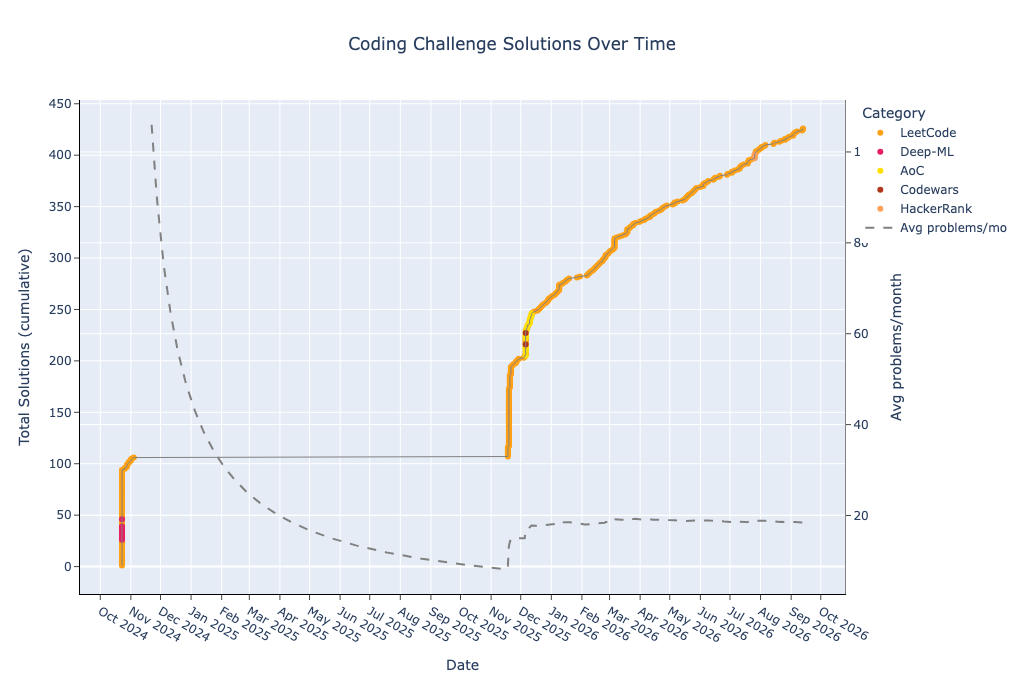
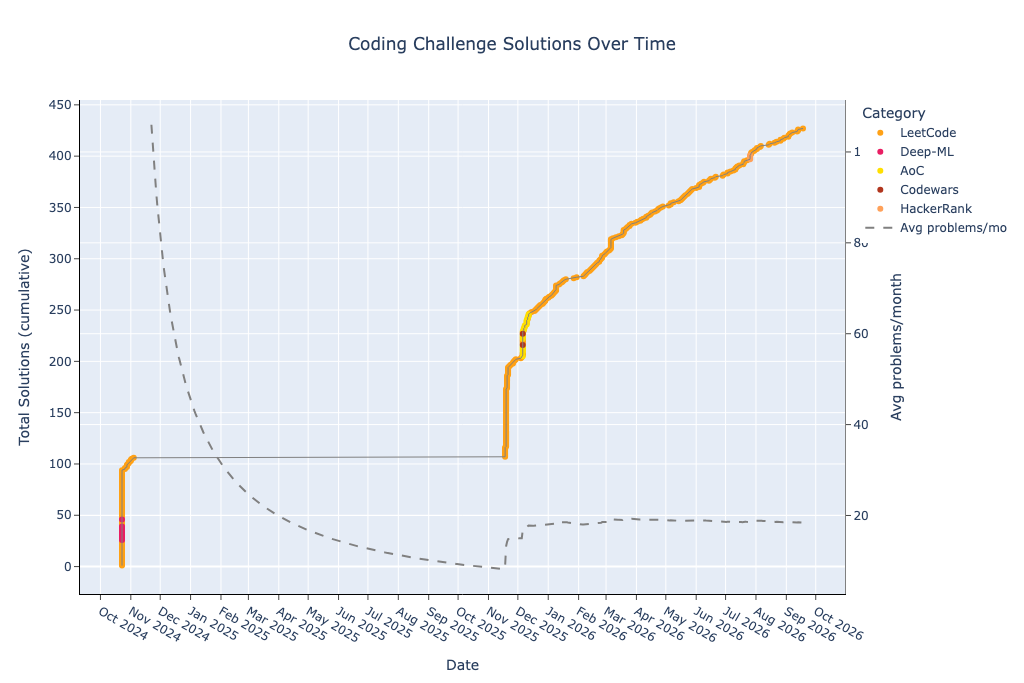
Regenerate README

diff --git a/README.md b/README.md
@@ -41,9 +41,9 @@ This repository contains a collection of coding problems solved on various platf
 | hackerrank-easy | 2 | 17 | 8 | 2 | 0 | 4 | 1 | 0 | 0 | 0 | 2 | 0 | 0 | 0 | 0 | 0 | 0 | 0 |
 | hackerrank-medium | 3 | 57 | 19 | 4 | 1 | 3 | 7 | 0 | 0 | 0 | 6 | 0 | 0 | 2 | 0 | 0 | 1 | 0 |
 | leetcode-easy | 137 | 2241 | 16 | 187 | 6 | 180 | 172 | 50 | 6 | 17 | 223 | 4 | 7 | 16 | 1 | 0 | 16 | 0 |
-| leetcode-medium | 207 | 5246 | 25 | 363 | 9 | 535 | 398 | 117 | 22 | 50 | 446 | 7 | 43 | 64 | 11 | 29 | 31 | 7 |
+| leetcode-medium | 208 | 5275 | 25 | 366 | 9 | 537 | 400 | 119 | 22 | 50 | 449 | 7 | 43 | 64 | 11 | 29 | 31 | 7 |
 | leetcode-hard | 37 | 1164 | 31 | 67 | 5 | 109 | 99 | 24 | 11 | 17 | 84 | 3 | 7 | 15 | 8 | 5 | 9 | 9 |
-| **total** | 426 | 10149 | 23 | 730 | 22 | 967 | 845 | 197 | 40 | 97 | 870 | 27 | 68 | 113 | 22 | 39 | 60 | 16 |
+| **total** | 427 | 10178 | 23 | 733 | 22 | 969 | 847 | 199 | 40 | 97 | 873 | 27 | 68 | 113 | 22 | 39 | 60 | 16 |
 
 ---
 
@@ -51,6 +51,7 @@ This repository contains a collection of coding problems solved on various platf
 
 | Date | Type | Challenge | Problem | Solution |
 | --- | --- | --- | --- | --- |
+| 2026-09-18 | LeetCode Medium | Find Two Non-overlapping Sub-arrays Each With Target Sum | [leetcode.com](https://leetcode.com/problems/find-two-non-overlapping-sub-arrays-each-with-target-sum/) | [python](leetcode/medium/1477.%20Find%20Two%20Non-overlapping%20Sub-arrays%20Each%20With%20Target%20Sum.py) |
 | 2026-09-13 | LeetCode Medium | Image Overlap | [leetcode.com](https://leetcode.com/problems/image-overlap/) | [python](leetcode/medium/835.%20Image%20Overlap.py) |
 | 2026-09-13 | LeetCode Medium | Count Nodes Equal to Average of Subtree | [leetcode.com](https://leetcode.com/problems/count-nodes-equal-to-average-of-subtree/) | [python](leetcode/medium/2265.%20Count%20Nodes%20Equal%20to%20Average%20of%20Subtree.py) |
 | 2026-09-12 | LeetCode Easy | Unique 3-Digit Even Numbers | [leetcode.com](https://leetcode.com/problems/unique-3-digit-even-numbers/) | [python](leetcode/easy/3483.%20Unique%203-Digit%20Even%20Numbers.py) |
@@ -60,7 +61,6 @@ This repository contains a collection of coding problems solved on various platf
 | 2026-09-03 | LeetCode Easy | Construct Uniform Parity Array I | [leetcode.com](https://leetcode.com/problems/construct-uniform-parity-array-i/) | [python](leetcode/easy/3875.%20Construct%20Uniform%20Parity%20Array%20I.py) |
 | 2026-09-03 | LeetCode Medium | Construct Uniform Parity Array II | [leetcode.com](https://leetcode.com/problems/construct-uniform-parity-array-ii/) | [python](leetcode/medium/3876.%20Construct%20Uniform%20Parity%20Array%20II.py) |
 | 2026-08-30 | LeetCode Medium | Removing Minimum and Maximum From Array | [leetcode.com](https://leetcode.com/problems/removing-minimum-and-maximum-from-array/) | [python](leetcode/medium/2091.%20Removing%20Minimum%20and%20Maximum%20From%20Array.py) |
-| 2026-08-29 | LeetCode Medium | Make Lexicographically Smallest Array by Swapping Elements | [leetcode.com](https://leetcode.com/problems/make-lexicographically-smallest-array-by-swapping-elements/) | [python](leetcode/medium/2948.%20Make%20Lexicographically%20Smallest%20Array%20by%20Swapping%20Elements.py) |
 # Advent of Code
 ### 2025
 | Day | Challenge | Time | Space | Problem | Solution |
@@ -407,6 +407,7 @@ This repository contains a collection of coding problems solved on various platf
 | 1429 | First Unique Number | O(n) | O(n) | [leetcode.com](https://leetcode.com/problems/first-unique-number/) | [python](leetcode/medium/1429.%20First%20Unique%20Number.py) |
 | 1438 | Longest Continuous Subarray With Absolute Diff Less Than or Equal to Limit | O(n) | O(n) | [leetcode.com](https://leetcode.com/problems/longest-continuous-subarray-with-absolute-diff-less-than-or-equal-to-limit/) | [python](leetcode/medium/1438.%20Longest%20Continuous%20Subarray%20With%20Absolute%20Diff%20Less%20Than%20or%20Equal%20to%20Limit.py) |
 | 1461 | Check If a String Contains All Binary Codes of Size K | O(n*n) | O(n*n) | [leetcode.com](https://leetcode.com/problems/check-if-a-string-contains-all-binary-codes-of-size-k/) | [python](leetcode/medium/1461.%20Check%20If%20a%20String%20Contains%20All%20Binary%20Codes%20of%20Size%20K.py) |
+| 1477 | Find Two Non-overlapping Sub-arrays Each With Target Sum | O(n) | O(n) | [leetcode.com](https://leetcode.com/problems/find-two-non-overlapping-sub-arrays-each-with-target-sum/) | [python](leetcode/medium/1477.%20Find%20Two%20Non-overlapping%20Sub-arrays%20Each%20With%20Target%20Sum.py) |
 | 1488 | Avoid Flood in The City | O(n) | O(1) | [leetcode.com](https://leetcode.com/problems/avoid-flood-in-the-city/) | [python](leetcode/medium/1488.%20Avoid%20Flood%20in%20The%20City.py) |
 | 1509 | Minimum Difference Between Largest and Small | O(n) | O(1) | [leetcode.com](https://leetcode.com/problems/minimum-difference-between-largest-and-small/) | [python](leetcode/medium/1509.%20Minimum%20Difference%20Between%20Largest%20and%20Small.py) |
 | 1513 | Number of Substrings With Only 1s | O(n) | O(1) | [leetcode.com](https://leetcode.com/problems/number-of-substrings-with-only-1s/) | [python](leetcode/medium/1513.%20Number%20of%20Substrings%20With%20Only%201s.py) |

diff --git a/CHANGES.md b/CHANGES.md
@@ -4,6 +4,7 @@
 
 | Date | Type | Challenge | Problem | Solution |
 | --- | --- | --- | --- | --- |
+| 2026-09-18 | LeetCode Medium | Find Two Non-overlapping Sub-arrays Each With Target Sum | [leetcode.com](https://leetcode.com/problems/find-two-non-overlapping-sub-arrays-each-with-target-sum/) | [python](leetcode/medium/1477.%20Find%20Two%20Non-overlapping%20Sub-arrays%20Each%20With%20Target%20Sum.py) |
 | 2026-09-13 | LeetCode Medium | Image Overlap | [leetcode.com](https://leetcode.com/problems/image-overlap/) | [python](leetcode/medium/835.%20Image%20Overlap.py) |
 | 2026-09-13 | LeetCode Medium | Count Nodes Equal to Average of Subtree | [leetcode.com](https://leetcode.com/problems/count-nodes-equal-to-average-of-subtree/) | [python](leetcode/medium/2265.%20Count%20Nodes%20Equal%20to%20Average%20of%20Subtree.py) |
 | 2026-09-12 | LeetCode Easy | Unique 3-Digit Even Numbers | [leetcode.com](https://leetcode.com/problems/unique-3-digit-even-numbers/) | [python](leetcode/easy/3483.%20Unique%203-Digit%20Even%20Numbers.py) |
@@ -13,4 +14,3 @@
 | 2026-09-03 | LeetCode Easy | Construct Uniform Parity Array I | [leetcode.com](https://leetcode.com/problems/construct-uniform-parity-array-i/) | [python](leetcode/easy/3875.%20Construct%20Uniform%20Parity%20Array%20I.py) |
 | 2026-09-03 | LeetCode Medium | Construct Uniform Parity Array II | [leetcode.com](https://leetcode.com/problems/construct-uniform-parity-array-ii/) | [python](leetcode/medium/3876.%20Construct%20Uniform%20Parity%20Array%20II.py) |
 | 2026-08-30 | LeetCode Medium | Removing Minimum and Maximum From Array | [leetcode.com](https://leetcode.com/problems/removing-minimum-and-maximum-from-array/) | [python](leetcode/medium/2091.%20Removing%20Minimum%20and%20Maximum%20From%20Array.py) |
-| 2026-08-29 | LeetCode Medium | Make Lexicographically Smallest Array by Swapping Elements | [leetcode.com](https://leetcode.com/problems/make-lexicographically-smallest-array-by-swapping-elements/) | [python](leetcode/medium/2948.%20Make%20Lexicographically%20Smallest%20Array%20by%20Swapping%20Elements.py) |
